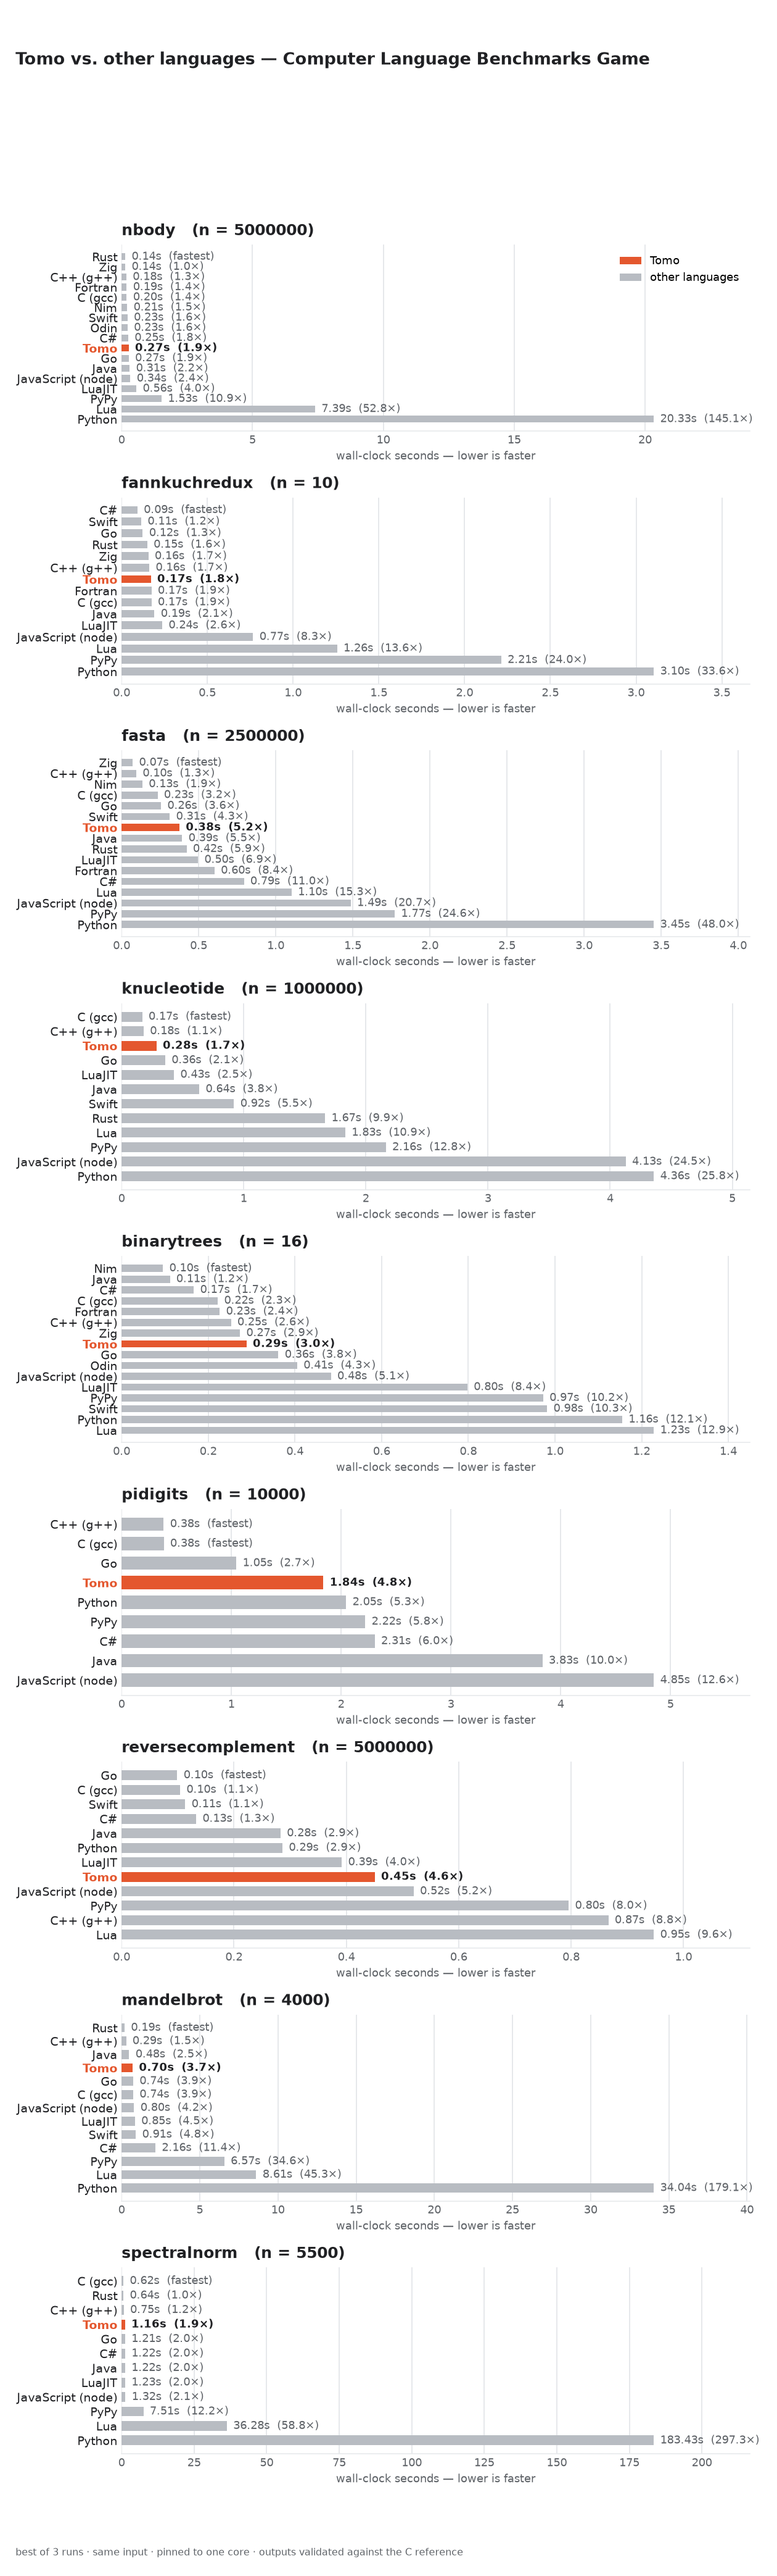
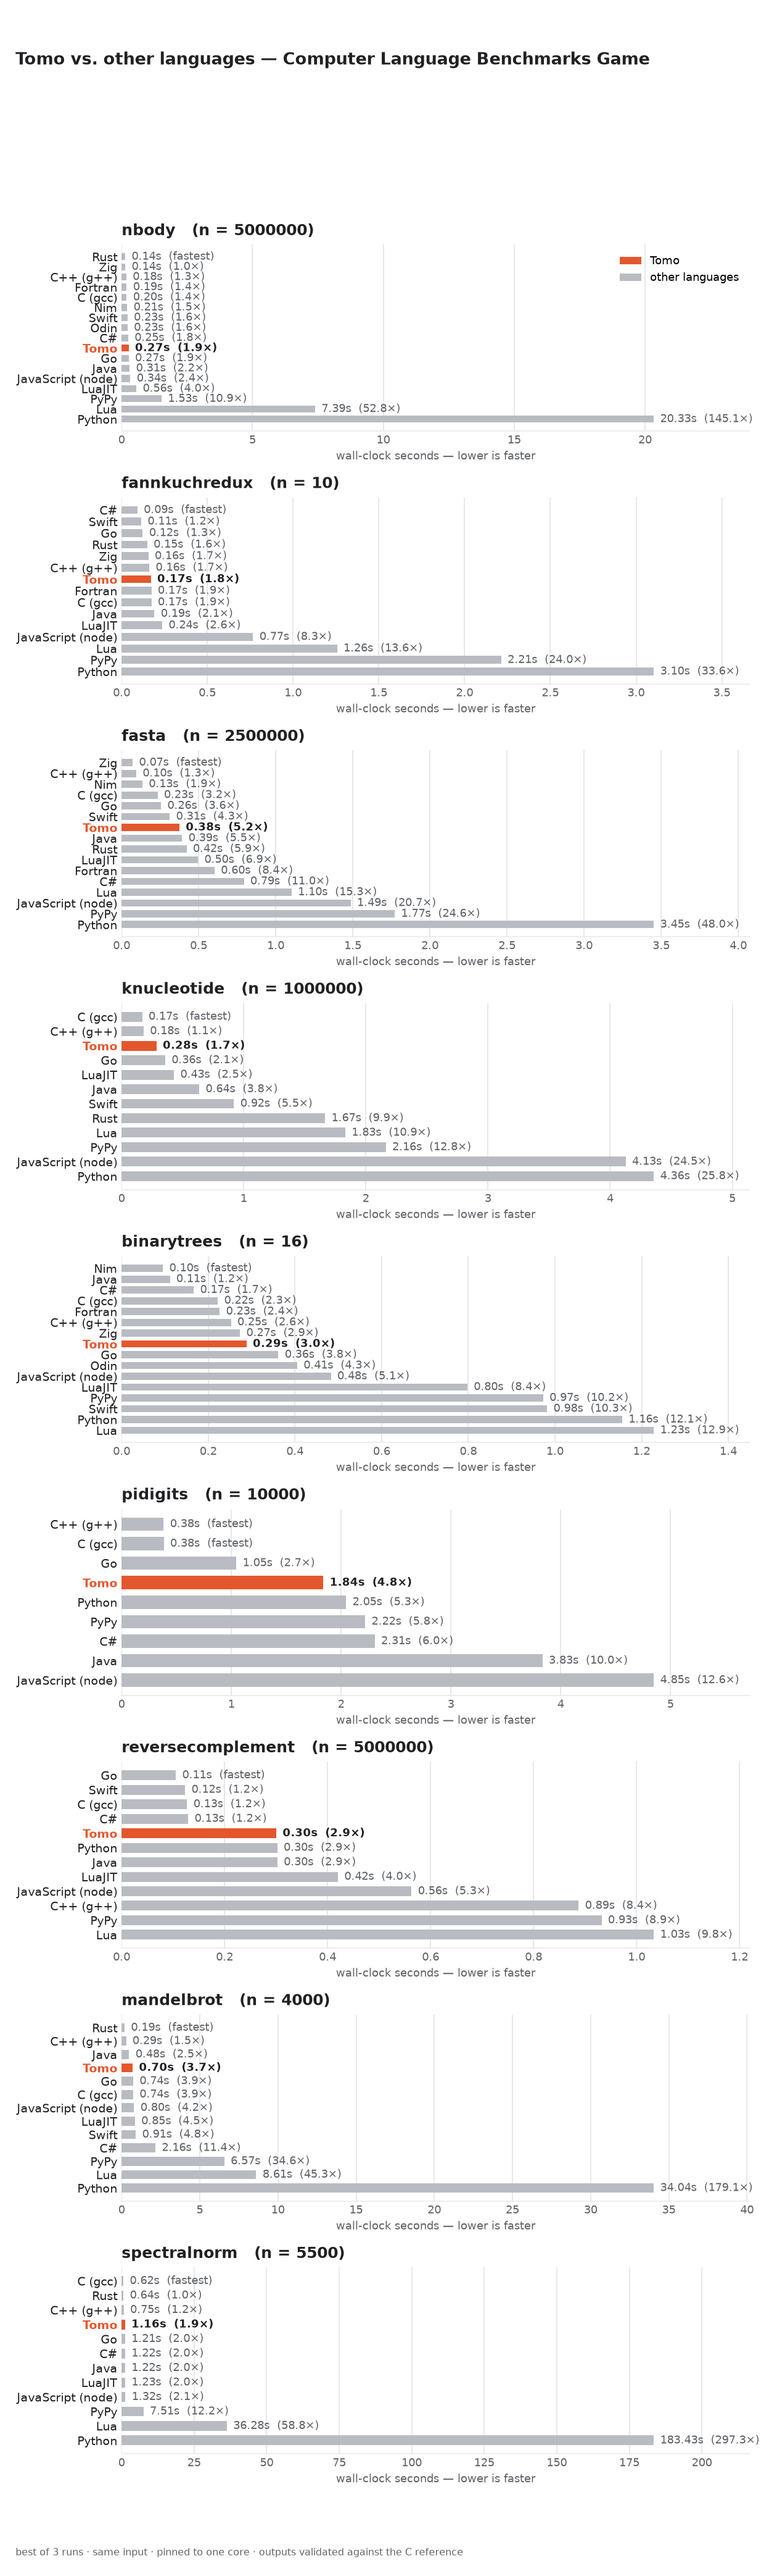
Rewrite reverse-complement's output path to avoid insert() entirely (0.40s -> 0.30s)
Even after fixing List$insert's growth path to bulk-copy, it still calls
memcpy() once per element to place the new item — real function-call
overhead when building a huge list one byte at a time.

Reuse `data`'s own backing bytes as the output buffer instead: slice them
(O(1), zero-copy CoW view, sized to the input plus a little slack for a
wrap-width mismatch) and write into that slice by index. The first
indexed write triggers exactly one bulk copy-on-write compact for the
whole buffer; every write after that is a plain bounds-checked pointer
store, with no function call and no growth logic. `perf` confirms
List$insert has dropped to <1% of runtime.

Result: 0.40s -> 0.30s (still byte-identical to the C reference),
essentially tying Python's entry, which does the equivalent transform as
two O(n) bulk C calls (bytes.translate then bytearray.reverse) with zero
per-byte interpreter overhead — and beating the compiled C++ reference
(0.89s), which loses to Python here too. Full test suite passes.

Changed region(s): [[0.0929, 0.6855, 0.5571, 0.7478], [0.7738, 0.7167, 0.8357, 0.7478], [0.5881, 0.7167, 0.619, 0.7478]]

diff --git a/benchmarks/README.md b/benchmarks/README.md
@@ -34,12 +34,13 @@ language.
 
 Of the four newer benchmarks, **mandelbrot** is a standout: at 0.70s Tomo
 *beats* the (multithreaded, core-pinned) C and Go entries outright, trailing
-only Rust, C++, and Java. **reverse-complement** at 0.45s is mid-pack, ahead of
-JavaScript, PyPy, C++, and Lua. **spectral-norm** at 1.16s is ~1.9× C, ahead of
-Go, C#, Java, and every scripting language. **pidigits** — a pure GMP bignum
-stress test — is Tomo's weakest relative showing at ~4.8× C, but still 4th of
-9, comfortably ahead of Python, PyPy, Java, C#, and JavaScript. Two runtime
-bugs surfaced (and got fixed) while chasing these numbers down — see below.
+only Rust, C++, and Java. **reverse-complement** at 0.30s effectively ties
+Python and Java, ahead of LuaJIT, JavaScript, C++, PyPy, and Lua. **spectral-
+norm** at 1.16s is ~1.9× C, ahead of Go, C#, Java, and every scripting
+language. **pidigits** — a pure GMP bignum stress test — is Tomo's weakest
+relative showing at ~4.8× C, but still 4th of 9, comfortably ahead of Python,
+PyPy, Java, C#, and JavaScript. Two runtime bugs surfaced (and got fixed)
+while chasing these numbers down — see below.
 
 The top of each compute chart is crowded with fast natives — Zig, Nim,
 Fortran, and Rust routinely lead — but no garbage-collected, memory-safe
@@ -58,16 +59,31 @@ pidigits (n=10000) dropped from **~11.3 GB to 12 MB**, and wall time from
 6.75s to 1.75s, since the GC was no longer thrashing over gigabytes of leaked
 limbs.
 
-Profiling **reverse-complement** (which builds its output with a per-byte
+Profiling **reverse-complement** (which built its output with a per-byte
 `out.insert(c)`) turned up a second one: `List$insert`'s growth path copied
 the *entire* existing list one element at a time via a separate `memcpy()`
 call per item, even when the data was already tightly packed and a single
 bulk `memcpy` would do. `perf` showed a quarter of total runtime spent inside
 those one-byte `memcpy` calls. Fixed to bulk-copy contiguous lists (the common
-case, including every plain append-via-`insert`); reverse-complement dropped
-from 0.60s to 0.45s and k-nucleotide (which builds its sequence the same way)
-improved too. This is a general fix — it speeds up any Tomo code that builds
-a list via repeated `insert()`, not just these two benchmarks.
+case, including every plain append-via-`insert`); this alone took reverse-
+complement from 0.60s to 0.40s and improved k-nucleotide (which builds its
+sequence the same way) too. It's a general fix — it speeds up any Tomo code
+that builds a list via repeated `insert()`, not just these two benchmarks.
+
+Even with that fix, `List$insert` still calls `memcpy()` once per element for
+the actual item placement — real function-call overhead when the item is a
+single byte. The reverse-complement port now avoids `insert()` entirely: its
+output buffer is `data`'s own backing bytes, reused as scratch space by
+slicing them (an O(1), zero-copy view) and writing into that slice by index.
+The *first* indexed write triggers one bulk copy-on-write compact for the
+whole buffer; every write after that is a plain bounds-checked pointer store,
+no function call and no growth logic at all. That dropped reverse-complement
+from 0.40s to **0.30s — tying Python**, whose entry does the equivalent
+transform as two O(n) bulk C calls (`bytes.translate()` then
+`bytearray.reverse()`) with zero per-byte interpreter overhead. Matching that
+from a genuine scalar byte-loop, instead of losing to it the way even the
+compiled C++ reference here does (0.89s), is about as good an outcome as a
+safe, bounds-checked language can get without hand-vectorizing.
 
 Per-benchmark graphs: [n-body](results-nbody.png) ·
 [fannkuch-redux](results-fannkuchredux.png) · [fasta](results-fasta.png) ·
